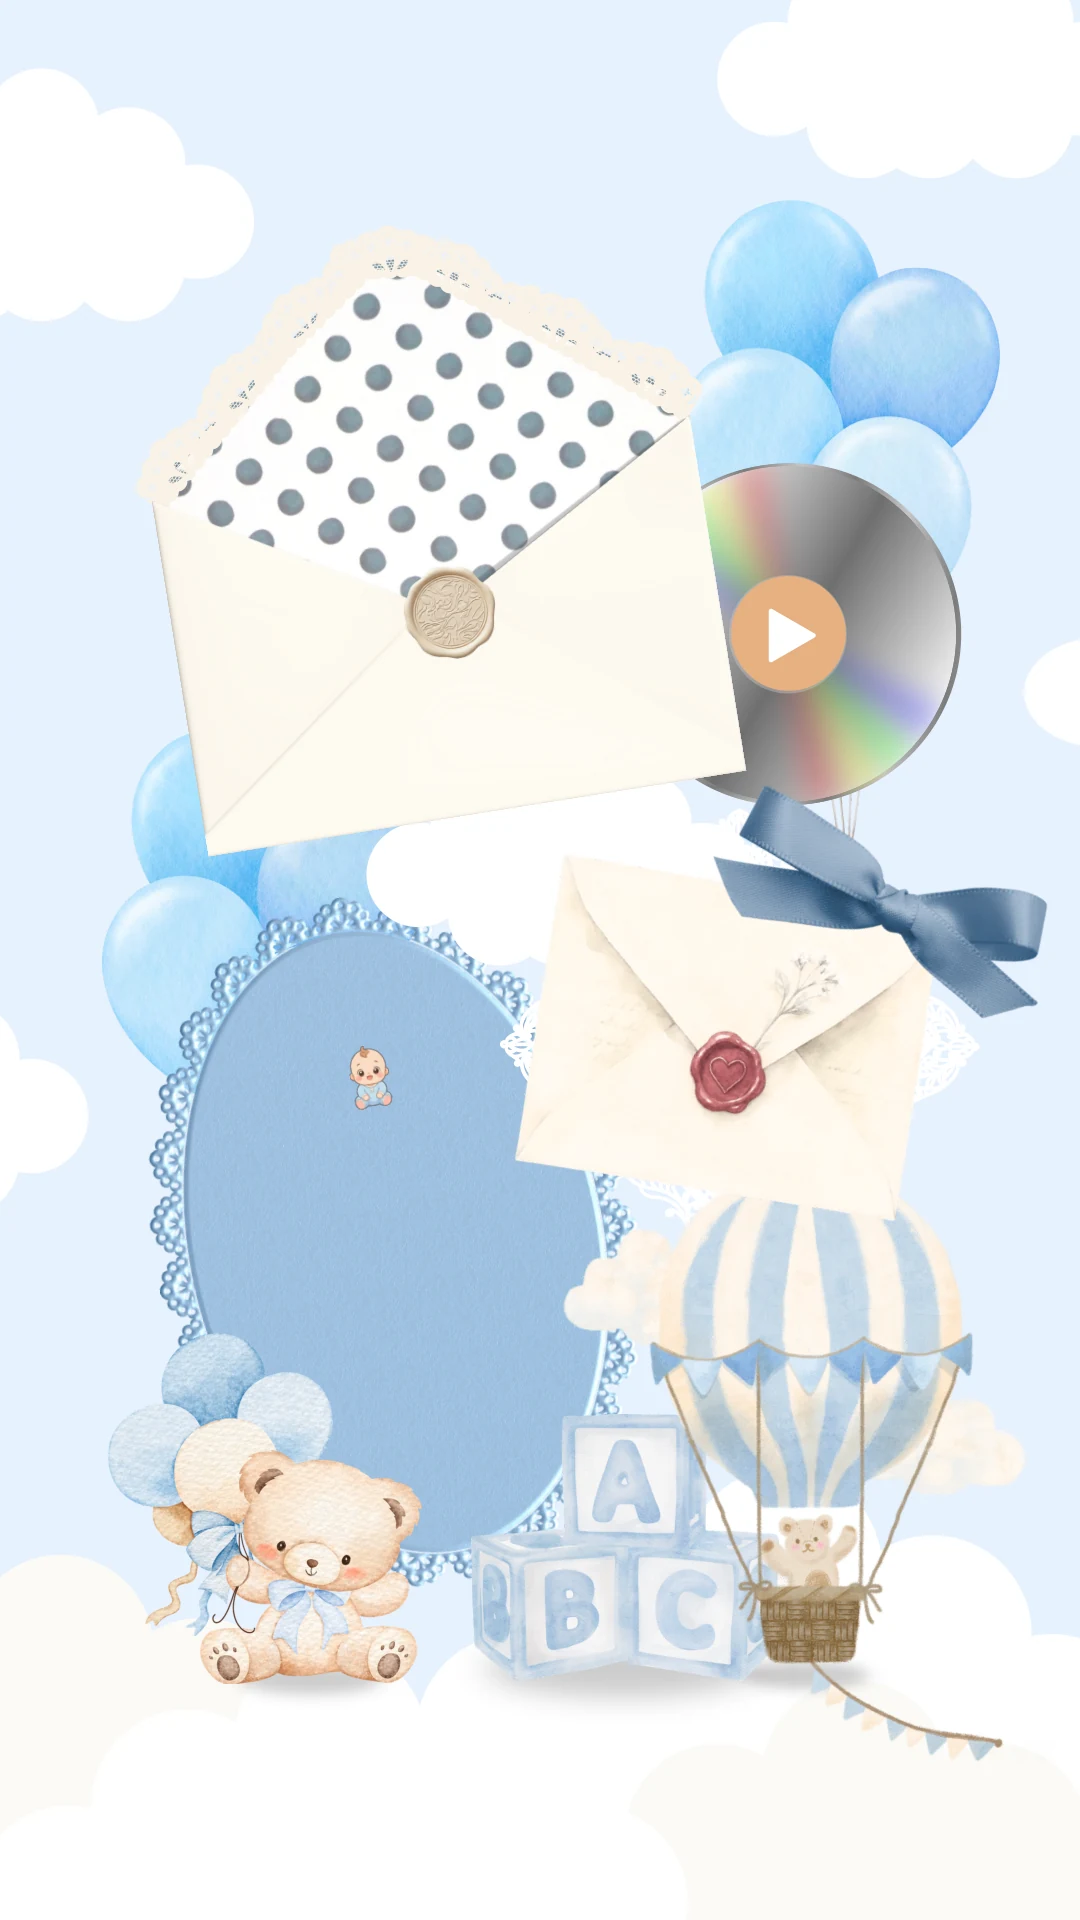
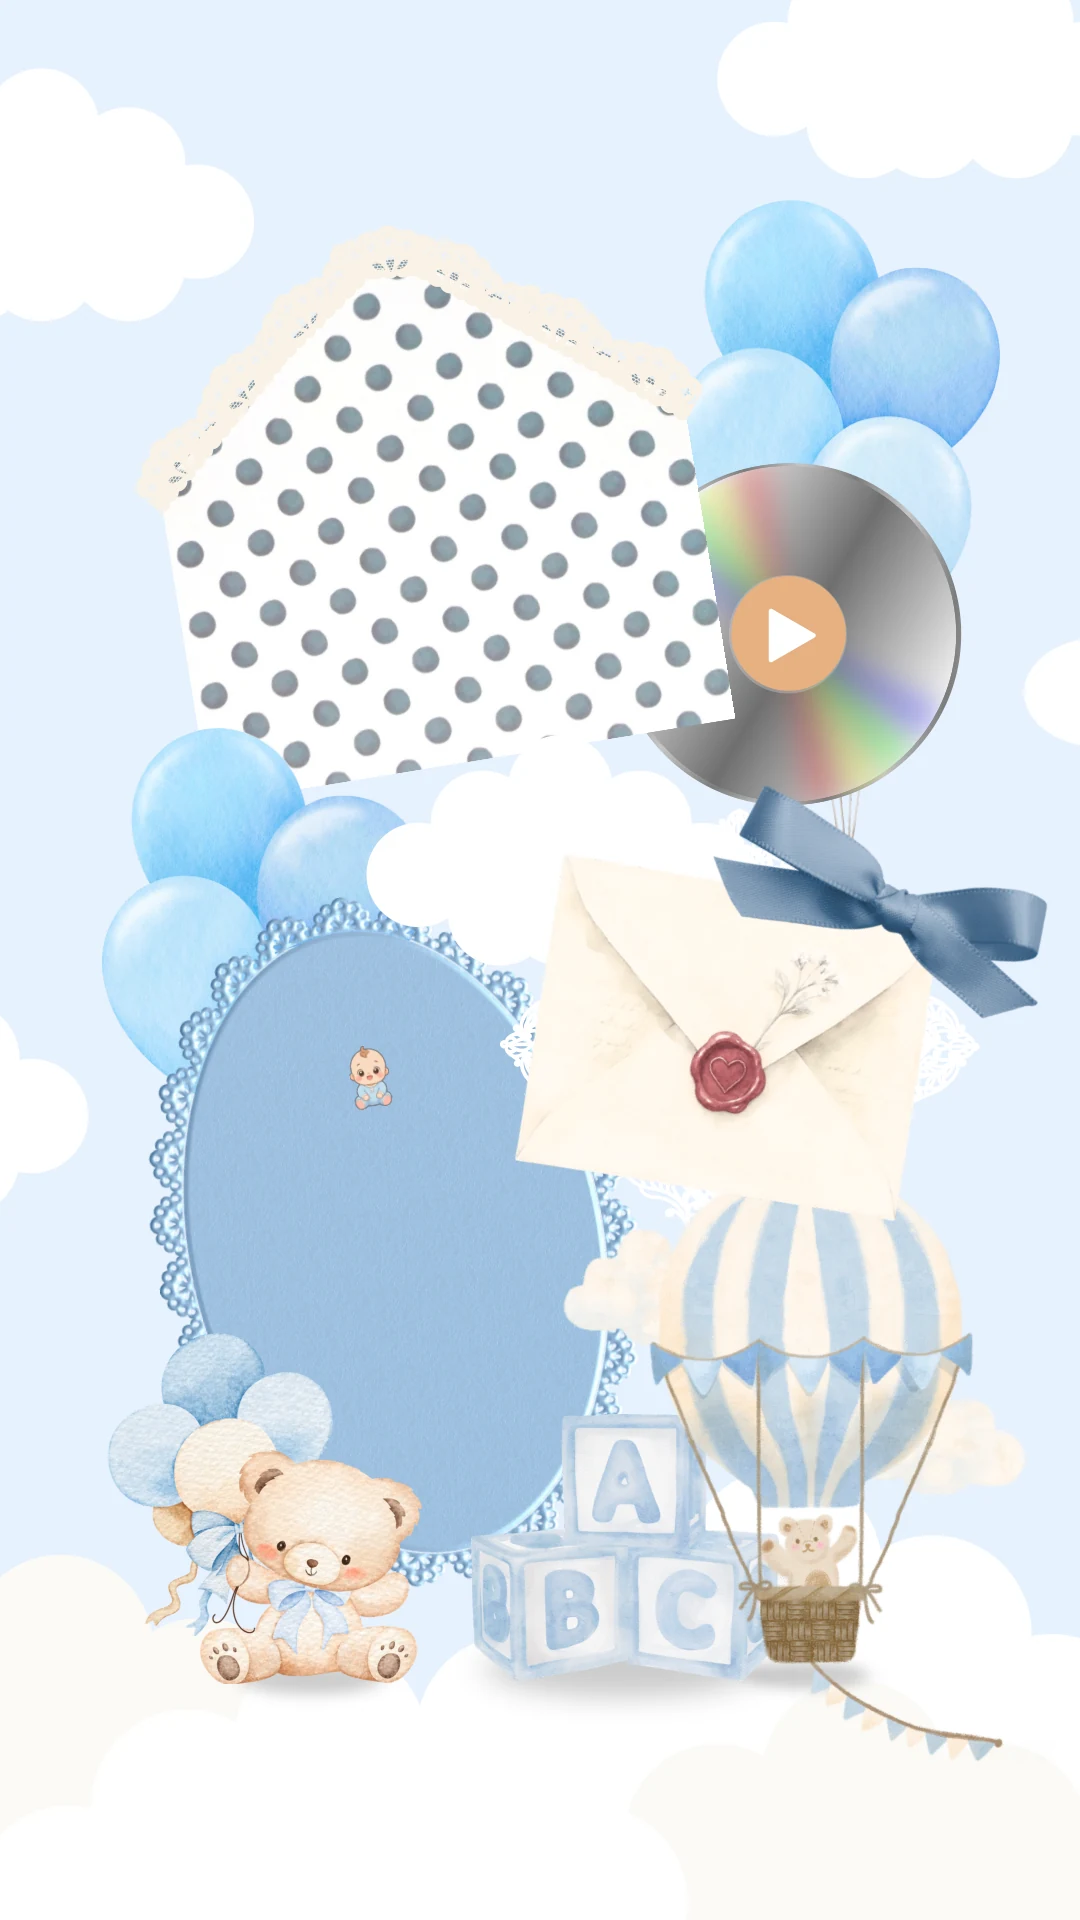
The card out of the flap, the account in the QR's place, a dress code page
Six things off the owner's read of the last preview.

**The card came out of the middle of nowhere.** Her envelope is a
front-flap one: the flap folds *down* over the body with the wax seal at
its point, and the card stands up behind it. The mouth the card slides
through runs behind that flap, and in the middle of the envelope it is
seven percent of the page above the flap's own edge — so the card appeared
out of nothing halfway up the white. The flap and the seal are elements in
front of the card now, and the strip between the mouth and the flap's
diagonal is covered, so the card is only ever seen once it is past the
flap's edge, which by the seal is where a card comes out of an envelope.

**`Base.when`: the branch a drawn page has never had.** Her gift note is
the case that forced it. A family who sends a QR gets the QR where she
drew one with their name and number under it; a family who sends a bank
account gets the three lines *in the QR's place*, because a square of
empty artwork with the account printed below it is a hole in the page. Her
drawn QR placeholder comes out of the ground with the words, so a page
with nothing to scan has nothing drawn on it.

**The dress code page is no longer bare.** She left it as a white card and
asked why it was empty — the answer was that a drawn page places
everything by hand and how many colours and how many things to avoid is
the family's answer, not a number this file can carry. `live` (from the
[…]

Changed region(s): [[0.1528, 0.2188, 0.7028, 0.4688]]

diff --git a/invites/src/lib/christening.ts b/invites/src/lib/christening.ts
@@ -135,6 +135,8 @@ type Set = {
   after?: number;
   /** the id of the element a tap here plays */
   taps?: string;
+  /** drawn only when an answer says so */
+  when?: { section: string; field: string; is?: string[]; filled?: boolean };
   /** what a tap on it does, where it leaves the invitation */
   go?: { to: 'calendar' | 'maps' | 'waze'; of?: string };
 };
@@ -171,6 +173,7 @@ const sheet = (ratio: number) => {
       ...(s.rule ? { rule: true as const } : {}),
       ...(s.after ? { motion: { enter: 'fade' as const, delay: s.after } } : {}),
       ...(s.taps ? { taps: s.taps } : {}),
+      ...(s.when ? { when: s.when } : {}),
       ...(s.go ? { go: s.go } : {}),
       lines,
     };
@@ -382,7 +385,27 @@ export const CHRISTENING_PAGES: PageSpec[] = [
        * in the ground.
        */
       piece('hl-card', '/christening/parts/envelope-card.webp',
-        { cx: 35.84, cy: 19.73, w: 44.91, aspect: 0.3457, turn: -9.36 }, { motion: { enter: 'slide' } }),
+        { cx: 35.84, cy: 19.73, w: 44.91, aspect: 0.3457, turn: -9.36, z: 1 }, { motion: { enter: 'slide' } }),
+      /*
+       * The flap, and the seal on its point, in front of the card.
+       *
+       * Her envelope is a front-flap one: the flap is folded *down* over the
+       * body with the wax seal at its point, and the card stands up behind
+       * it. So the mouth — the straight line the card slides through — runs
+       * behind the flap, and in the middle of the envelope it is a long way
+       * above the flap's own edge. Clipping the card at the mouth alone made
+       * it appear out of nothing halfway up the white, which is what read as
+       * "it came from the middle part".
+       *
+       * With the flap in front, the strip between the mouth and the flap's
+       * diagonal is covered, so the card is only ever seen once it is past
+       * the flap's edge — which by the seal is exactly where a card comes
+       * out of an envelope.
+       */
+      piece('hl-flap', '/christening/parts/envelope-pocket.webp',
+        { cx: 41.58, cy: 33.12, w: 50.46, aspect: 0.6614, turn: -9.07, z: 2 }),
+      piece('hl-seal', '/christening/parts/envelope-seal.webp',
+        { cx: 41.64, cy: 31.91, w: 8.52, aspect: 1.0026, z: 3 }),
       HUB.one('hl-details', { after: 1100, base: 18.220, size: pt(20), cx: 36.33, w: 40, turn: -8.8 }, say('The Details')),
       HUB.one('hl-of', { after: 1100, base: 21.395, size: pt(23), cx: 37.54, w: 44, turn: -8.7 }, say('The Christening of')),
       HUB.one('hl-name', { after: 1100, base: 24.531, size: 5.25, color: 'accent', face: 'names', role: 'script', cx: 38.93, w: 48, turn: -8.3, room: 20 },
@@ -496,9 +519,12 @@ export const CHRISTENING_PAGES: PageSpec[] = [
         { left: 6.10, date: 66.040, title: 68.665, text: 71.640 },
         { left: 59.84, date: 80.873, title: 83.498, text: 86.473 },
       ]),
+      // on the middle of its own row — halfway between her date's baseline
+      // and her sentence's — rather than under it, so the picture and the
+      // words read as one moment
       ...[
-        { i: 0, y: 41.5, left: true }, { i: 1, y: 55.9, left: false },
-        { i: 2, y: 70.7, left: true }, { i: 3, y: 85.5, left: false },
+        { i: 0, y: 39.7, left: true }, { i: 1, y: 54.0, left: false },
+        { i: 2, y: 68.8, left: true }, { i: 3, y: 83.7, left: false },
       ].map(({ i, y, left }): PhotoEl => ({
         id: `story-photo-${i + 1}`, kind: 'photo',
         x: left ? 72 : 26, y, w: 26, aspect: 1, anchor: 'centre',
@@ -617,14 +643,22 @@ export const CHRISTENING_PAGES: PageSpec[] = [
    * a heading, the attire, and her palette note under the drawn swatches.
    */
   {
-    key: 'dresscode', label: { en: 'Dress Code' }, sections: ['dressCode'], seam: 0, booklet: 'details', drawn: true,
-    ground: ground('dresscode', 1.7778),
+    /*
+     * Her page is a white card and nothing else — she drew the frame and
+     * left the inside for us. So the heading is hers and the rest is the
+     * section's own: the figures in the colours the family picked, the
+     * palette with each shade named, and the kindly-avoid list drawn
+     * crossed out. `live` is what lets a drawn page carry them (see
+     * PageSpec.live); they cannot be placed by hand because how many
+     * colours and how many things to avoid is the family's answer.
+     */
+    key: 'dresscode', label: { en: 'Dress Code' }, sections: ['dressCode'], seam: 0, booklet: 'details',
+    drawn: true, grow: true, live: true, headPad: 26,
+    ground: ground('dresscode', 1.7778, true),
     elements: [
+      // the heading is hers; the line under it is the section's, written from
+      // the attire the family ticked — two of them was one of them wrong
       DRESS.one('dress-head', { base: 11.5, size: pt(46), role: 'title' }, { word: 'title:dressCode' }, say('DRESS CODE')),
-      DRESS.one('dress-what', { base: 16.4, size: pt(30), color: 'accent', face: 'display', weight: 700 },
-        bind('dressCode', 'attireText'), say('SMART CASUAL')),
-      DRESS.one('dress-note', { base: 89.5, size: pt(22), w: 70, lead: 1.35, hide: true },
-        bind('dressCode', 'paletteNote'), { word: 'dressNote' }),
     ],
   },
   {
@@ -668,18 +702,44 @@ export const CHRISTENING_PAGES: PageSpec[] = [
        */
       GIFT.one('gift-pay', { base: 52.833, size: pt(30), face: 'display', weight: 700 },
         say('SEND A GIFT')),
-      GIFT.one('gift-pay-who', { base: 86.224, size: pt(35), hide: true, room: 40 },
-        bind('gift', 'bankAccountName'), bind('gift', 'gcashName')),
-      GIFT.one('gift-pay-bank', { base: 90.863, size: pt(30), hide: true, room: 40 },
-        bind('gift', 'bankName')),
-      GIFT.one('gift-pay-no', { base: 94.9, size: pt(35), hide: true, room: 34 },
-        bind('gift', 'bankAccountNumber'), bind('gift', 'gcashNumber')),
+      /*
+       * Two layouts of one page, and the answer that picks between them.
+       *
+       * A family who sends a QR gets the QR where she drew one, with their
+       * name and number under it at her baselines. A family who sends a bank
+       * account gets the three lines *in the QR's place* — because a square
+       * of empty artwork with the account printed below it is a hole in the
+       * page, and it is what she asked to have gone.
+       *
+       * The QR itself is the family's own upload now, not her placeholder:
+       * that came out of the ground with the words (`drops.json`), so a page
+       * with nothing to scan has nothing drawn on it.
+       */
+      { id: 'gift-qr', kind: 'photo', bind: { section: 'gift', field: 'gcashQr' },
+        x: 49.95, y: 68.08, w: 27.31, aspect: 1, anchor: 'centre',
+        when: { section: 'gift', field: 'payBy', is: ['gcash'] } },
+      ...([
+        // under her QR, where she drew them
+        { at: 'gcash' as const, who: 86.224, bank: 90.863, no: 94.9 },
+        // in the QR's own place, where there is no QR to sit under
+        { at: 'bank' as const, who: 63.5, bank: 69.4, no: 75.3 },
+      ].flatMap(({ at, who, bank, no }) => {
+        const when = { section: 'gift', field: 'payBy', is: at === 'gcash' ? ['gcash'] : ['bank', 'none'] };
+        return [
+          GIFT.one(`gift-${at}-who`, { base: who, size: pt(35), hide: true, room: 40, when },
+            bind('gift', 'bankAccountName'), bind('gift', 'gcashName')),
+          GIFT.one(`gift-${at}-bank`, { base: bank, size: pt(30), hide: true, room: 40, when },
+            bind('gift', 'bankName')),
+          GIFT.one(`gift-${at}-no`, { base: no, size: pt(35), hide: true, room: 34, when },
+            bind('gift', 'bankAccountNumber'), bind('gift', 'gcashNumber')),
+        ];
+      })),
     ],
   },
 
   // ──────────────── behind the sealed envelope: the RSVP ────────────────
   {
-    key: 'rsvp', label: { en: 'RSVP' }, sections: ['rsvp'], seam: 0, booklet: 'rsvp', drawn: true, grow: true, live: true, headPad: 52,
+    key: 'rsvp', label: { en: 'RSVP' }, sections: ['rsvp'], seam: 0, booklet: 'rsvp', drawn: true, grow: true, live: true, headPad: 30,
     ground: ground('rsvp', 1.7778, true),
     elements: [
       // four letters on an arc, each turned its own way, because that is how

diff --git a/invites/src/lib/design.ts b/invites/src/lib/design.ts
@@ -874,6 +874,25 @@ type Base = {
    * nothing leaves that element hidden for good. The checklist catches it.
    */
   taps?: string;
+  /**
+   * Draw this only when an answer says so.
+   *
+   * The one thing a drawn page has never been able to do is branch, and a
+   * page sometimes has to. The christening's gift note is the case that
+   * forced it: a family who sends a QR gets the QR with their name and
+   * number under it, and a family who sends a bank account gets the account
+   * *in the QR's place* — not under a square of empty artwork. Two layouts
+   * of one page, chosen by one answer.
+   *
+   * `is` lists the values that draw it. `filled` draws it when the answer
+   * has something in it (or, false, when it has not). Both given, both must
+   * hold.
+   *
+   * This is not `hidden: 'whenEmpty'`, which asks about the element's own
+   * words. This asks about an answer somewhere else on the form, which is
+   * what a layout decision is made of.
+   */
+  when?: { section: string; field: string; is?: string[]; filled?: boolean };
   /** the id of another element this one follows when that element is moved */
   attachTo?: string;
   /**
@@ -1375,6 +1394,7 @@ const zBase = {
   }).strict().optional(),
   go: z.object({ to: z.enum(['calendar', 'maps', 'waze']), of: z.string().max(40).optional() }).strict().optional(),
   taps: z.string().max(41).optional(),
+  when: z.object({ section: z.string().max(40), field: z.string().max(40), is: z.array(z.string().max(60)).max(12).optional(), filled: z.boolean().optional() }).strict().optional(),
   attachTo: z.string().max(41).optional(),
   opens: z.string().regex(KEY).optional(),
 };
@@ -2722,6 +2742,23 @@ export function valueAt(content: Record<string, unknown> | undefined, ref: Field
   const row = list[ref.index];
   if (!row) return '';
   return said(text(ref.sub ? row[ref.sub] : row.value), ref.show);
+}
+
+/**
+ * Whether an element's `when` is satisfied by these answers.
+ *
+ * Absent, it always is: an element that asks no question is always drawn.
+ * The studio and the checklist read this too, so a box hidden from a guest
+ * is a box the checklist does not ask the customer to fill.
+ */
+export function shows(el: Element, content: Record<string, unknown> | undefined): boolean {
+  const w = el.when;
+  if (!w) return true;
+  const data = isRecord(content?.[w.section]) ? (content![w.section] as Rowish) : undefined;
+  const value = text(data?.[w.field]);
+  if (w.is && !w.is.includes(value)) return false;
+  if (w.filled !== undefined && Boolean(value) !== w.filled) return false;
+  return true;
 }
 
 /**

diff --git a/invites/prisma/templates.ts b/invites/prisma/templates.ts
@@ -72,6 +72,23 @@ export type TemplateSeed = {
   design?: DesignDoc;
   /** Kept for the invitations on it, but not on sale. */
   retired?: boolean;
+  /**
+   * The code owns this design's document, so a sync overwrites whatever is in
+   * the row.
+   *
+   * The default is the opposite, and deliberately: a document the studio
+   * wrote into a row is the owner's work and a catalogue sync must never
+   * flatten it. But a design still being *built* in this file — the
+   * christening is, page by page — has the opposite need. Its row holds a
+   * snapshot the catalogue itself put there, nobody has touched it in the
+   * studio, and leaving it alone means every fix stays on this branch and
+   * never reaches the page.
+   *
+   * Take it off once the studio becomes the place that design is edited.
+   * Until then a sync is how it ships, and the flag is what says so out loud
+   * rather than a surprise in the diff.
+   */
+  owns?: boolean;
 };
 
 export const TEMPLATES: TemplateSeed[] = [
@@ -133,7 +150,7 @@ export const TEMPLATES: TemplateSeed[] = [
      * in `words` below, which is the other half of what a look would have
      * given it, so there is nothing left for one to do.
      */
-    palette: pal('christening'), fonts: fonts('abhaya-parisienne'), featured: true, retired: true,
+    palette: pal('christening'), fonts: fonts('abhaya-parisienne'), featured: true, retired: true, owns: true,
     description: 'Clouds, a paper bow and a desk of small things to open. Sixteen pages for a christening, seven to scroll and nine to find.',
     thumb: '/christening/cover.webp', demo: 'lucas-andrei-christening',
     design: builtinDesign('christening')!,

diff --git a/invites/scripts/sync-templates.ts b/invites/scripts/sync-templates.ts
@@ -39,12 +39,15 @@ async function main() {
       // unpublished a live design in the admin, a sync must not put it back
       // on the shop floor; a retired one comes off it.
       const { published, design, ...rest } = data;
-      // a document the studio wrote into this row is hers and stays; the catalogue's goes only into an empty column
-      const own = found.design && typeof found.design === 'object' && Object.keys(found.design as object).length > 0;
+      // A document the studio wrote into this row is hers and stays; the
+      // catalogue's goes only into an empty column — unless the catalogue
+      // says it owns this one (`owns`), which is how a design still being
+      // built in code reaches the page at all. See TemplateSeed.owns.
+      const own = !t.owns && found.design && typeof found.design === 'object' && Object.keys(found.design as object).length > 0;
       const payload = own ? rest : { ...rest, design };
       if (!dry) await prisma.template.update({ where: { slug: t.slug }, data: t.retired ? { ...payload, published } : payload });
       updated++;
-      console.info(`  ${t.retired ? 'retired ' : 'updated '} ${t.slug.padEnd(20)} ${t.name}${own ? ' (its own document kept)' : ''}`);
+      console.info(`  ${t.retired ? 'retired ' : 'updated '} ${t.slug.padEnd(20)} ${t.name}${own ? ' (its own document kept)' : t.owns ? ' (design refreshed from the catalogue)' : ''}`);
     } else {
       if (!dry) await prisma.template.create({ data });
       created++;

diff --git a/invites/src/components/invite/drawn.tsx b/invites/src/components/invite/drawn.tsx
@@ -6,7 +6,7 @@ import { imageUrl, IMAGE } from '@/lib/images';
 import { mapsHref, wazeHref } from '@/lib/places';
 import {
   elementStyle, photoStyle, cropStyle, shapeStyle, lineText, valueAt, pageRatio, floatShape, floatAt, BLOCK_CLASS, LINE_CLASS, LINE_TAG,
-  decorStyle, decorOver, flowFloats, flowDecor, motionOf, isPicture, canOpen,
+  decorStyle, decorOver, flowFloats, flowDecor, motionOf, isPicture, canOpen, shows,
   type PageSpec, type Element, type PhotoEl, type TextEl, type ShapeEl, type VideoEl, type AnimEl, type Line, type WordKey, type FieldRef, type MomentEl
 } from '@/lib/design';
 import { LazyVideo, LazyLottie } from './client';
@@ -85,7 +85,7 @@ export function DrawnPage({ page, content, look, lang, occasion, edit, parts, pa
   const grow = page.grow ? pageRatio(page) : undefined;
   return (
     <section id={page.key} className={`inv-section inv-bb-art inv-bb-${page.key}`}>
-      {(page.elements ?? []).map((el) => <Fragment key={el.id}>{draw(el, read, grow)}</Fragment>)}
+      {(page.elements ?? []).filter((el) => read.edit || shows(el, content)).map((el) => <Fragment key={el.id}>{draw(el, read, grow)}</Fragment>)}
     </section>
   );
 }
